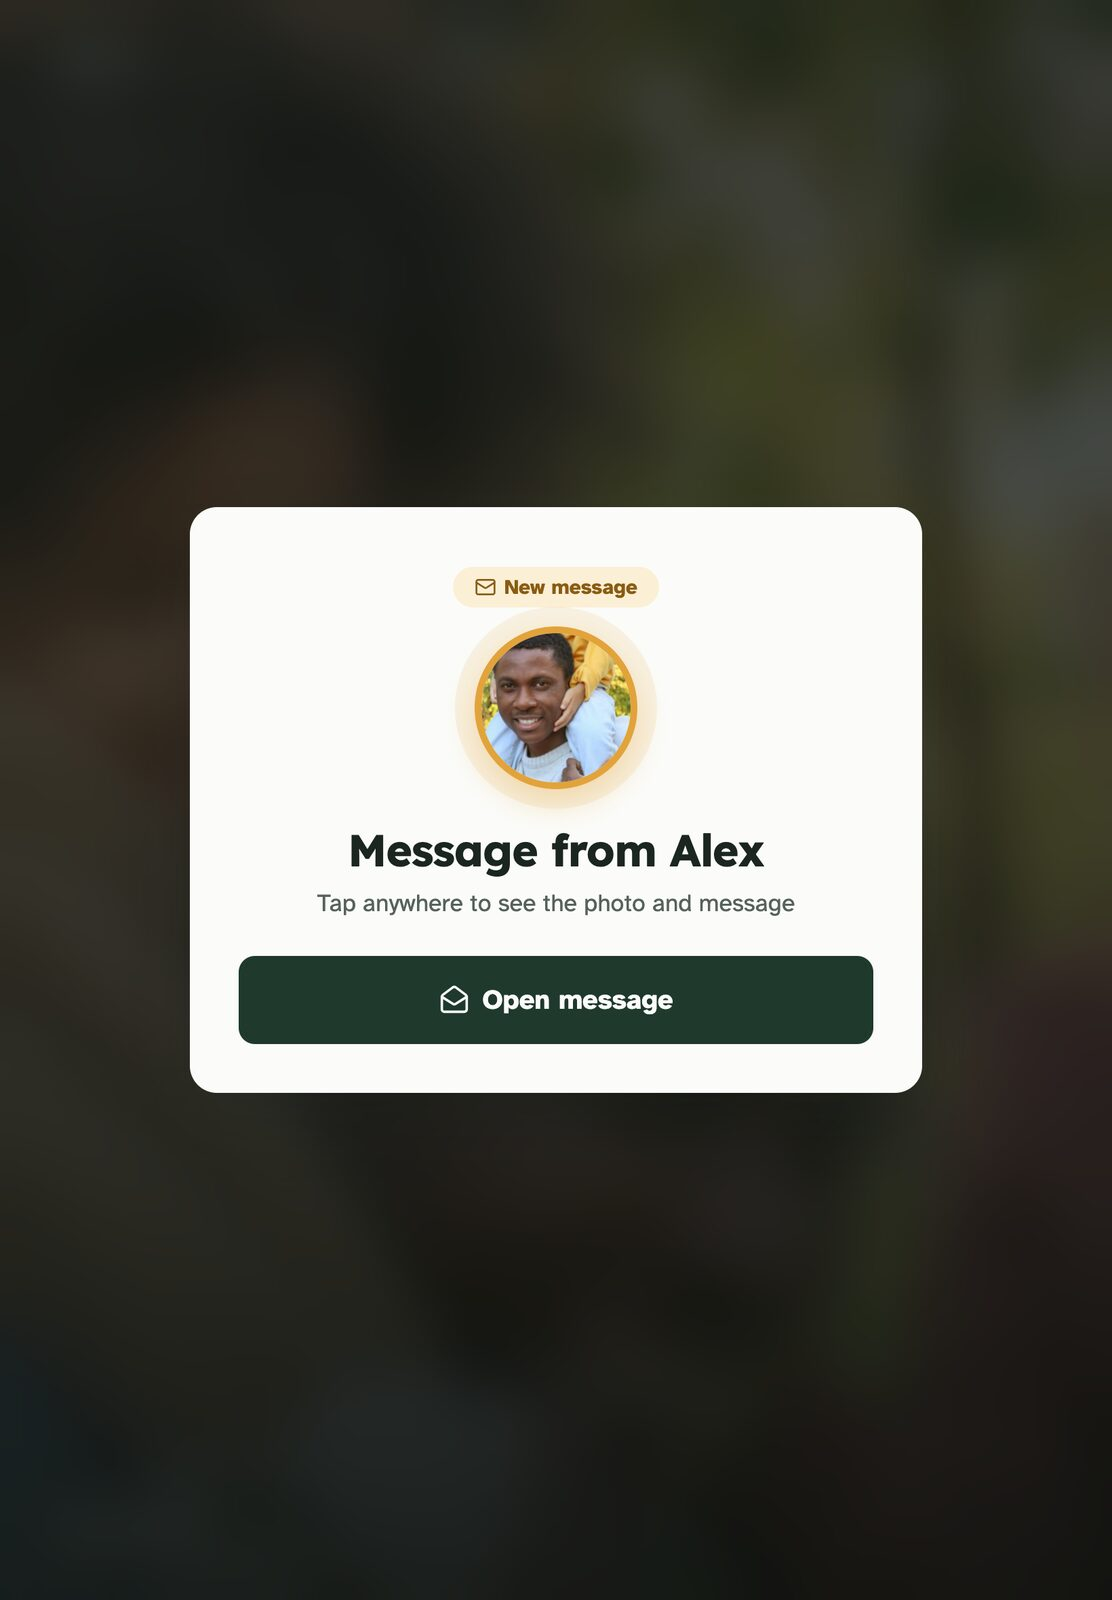
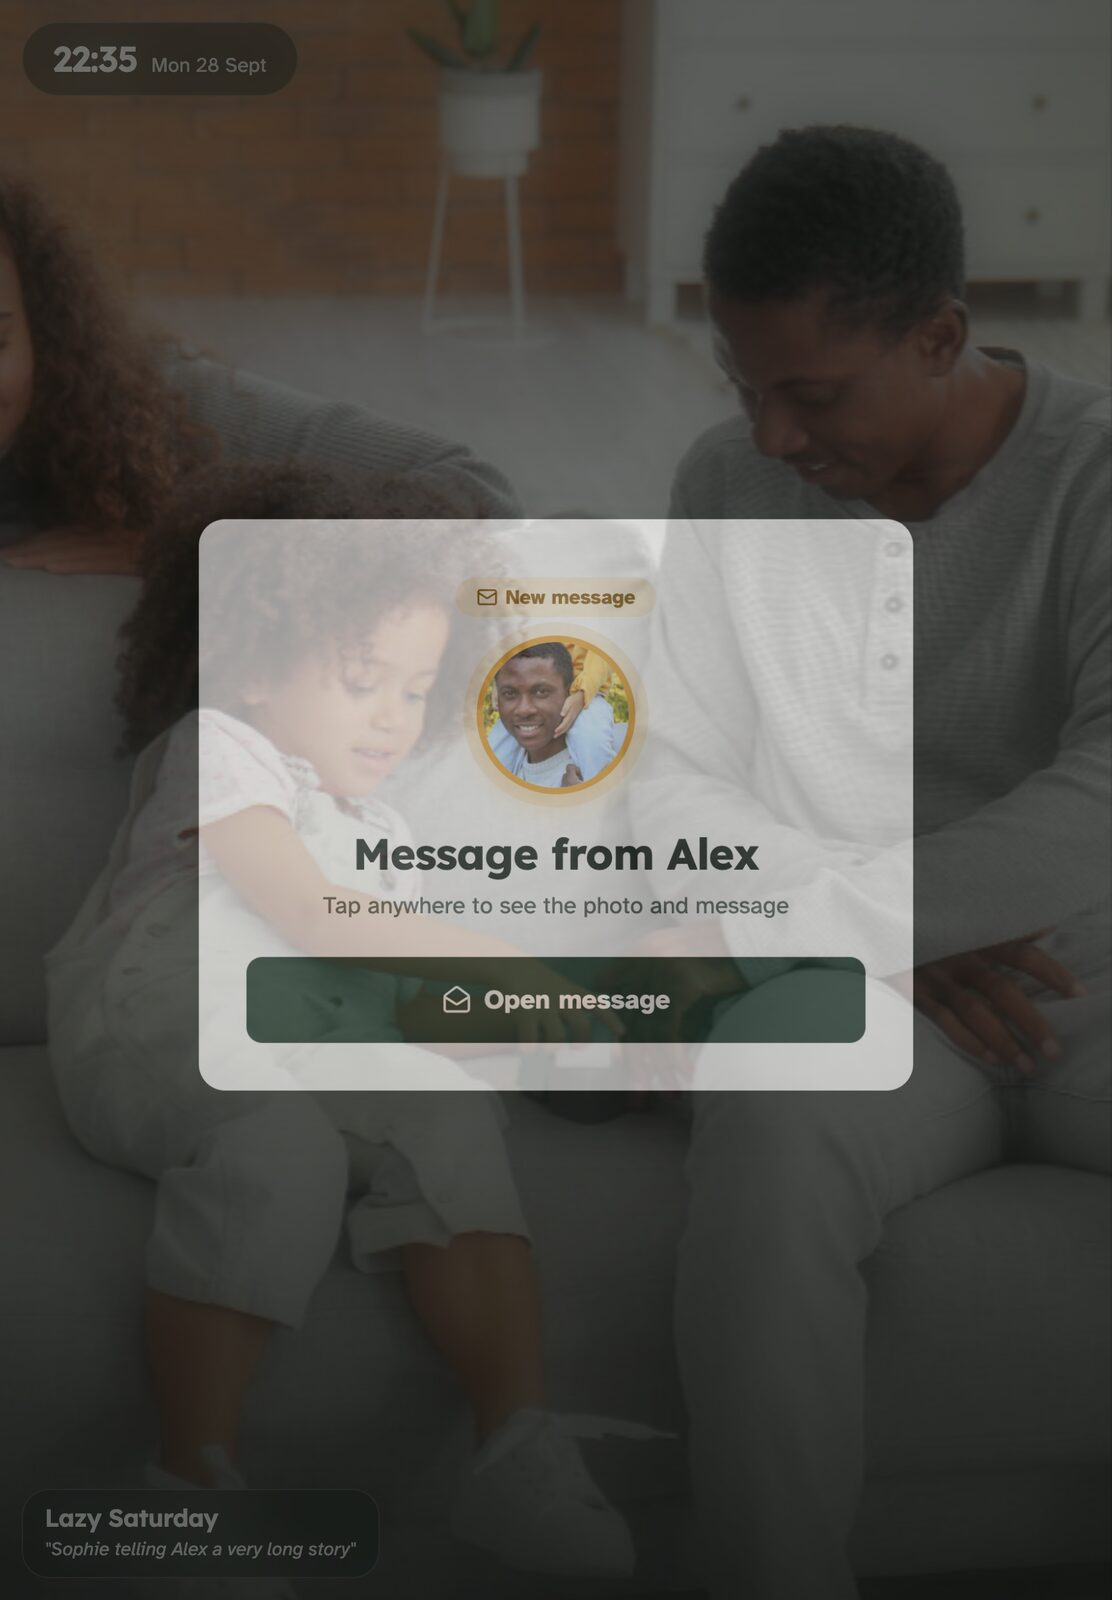
New portrait for Margaret that fits the family
Portrait by Eric Oliveira on Unsplash, credited in the README.

diff --git a/README.md b/README.md
@@ -86,4 +86,4 @@ After the hackathon, Dylan revamped the frontend:
 
 ## Photo credits
 
-Photos are CC0 stock images from StockSnap (stocksnap.io).
+Family photos are CC0 stock images from StockSnap (stocksnap.io). Margaret's portrait is by Eric Oliveira on Unsplash (unsplash.com/@ericdsgn), used under the Unsplash License.
